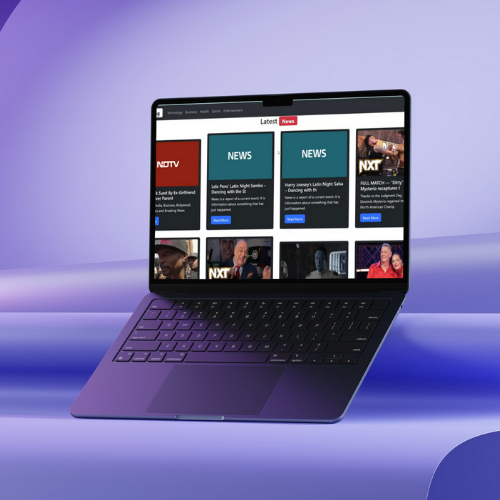
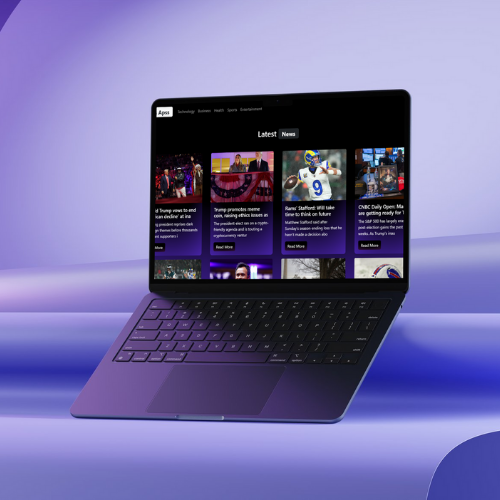
add: add portfolio link in vercel

Changed region(s): [[0.3, 0.18, 0.81, 0.57]]

diff --git a/src/constants/index.js b/src/constants/index.js
@@ -57,12 +57,12 @@ export const PROJECTS = [
        link: "https://wafa-films.vercel.app/",
   },
   {
-    title: "Blogging Platform",
+    title: "News App Platform",
     image: project4,
     description:
-      "A comprehensive blogging platform that allows users to create, publish, and manage content, featuring rich text editing, interactive comments, and user profiles.",
+     "A dynamic and responsive news platform that delivers real-time news updates across multiple categories like Technology, Business, Health, Sports, and Entertainment. Built with React and Bootstrap, this platform fetches data from public news APIs, providing a seamless and user-friendly experience for users to stay informed on current events.",
     technologies: ["HTML", "CSS", "Vue.js", "Express", "mySQL"],
-    link: "#"
+    link: "https://news-app-react-seven-alpha.vercel.app/"
   },  
 ];
 
